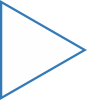
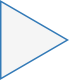
Сhange the visual display of events and mechanisms

diff --git a/web/css/visual-diagram.css b/web/css/visual-diagram.css
@@ -58,6 +58,7 @@ div.top > div {
     width: 150px;
     height: 80px;
     border:2px solid #337ab7;
+    background-color:#f5f5f5;
     border-radius: 5px;
     /* текст по центру для дочернего блока div-event-name*/
     position: absolute;
@@ -86,8 +87,8 @@ div.top > div {
 
 /* -Стили для механизмов- */
 .div-mechanism {
-    width:87px;
-    height:100px;
+    width:69px;
+    height:80px;
     background-image:url(/web/images/triangle.png);
     /* текст по центру для дочерних блоков div-mechanism-m*/
     position: absolute;
@@ -104,8 +105,8 @@ div.top > div {
 }
 
 .div-mechanism:hover {
-    width:87px;
-    height:100px;
+    width:69px;
+    height:80px;
     background-image:url(/web/images/triangle_activ.png);
     cursor: pointer;
 }
